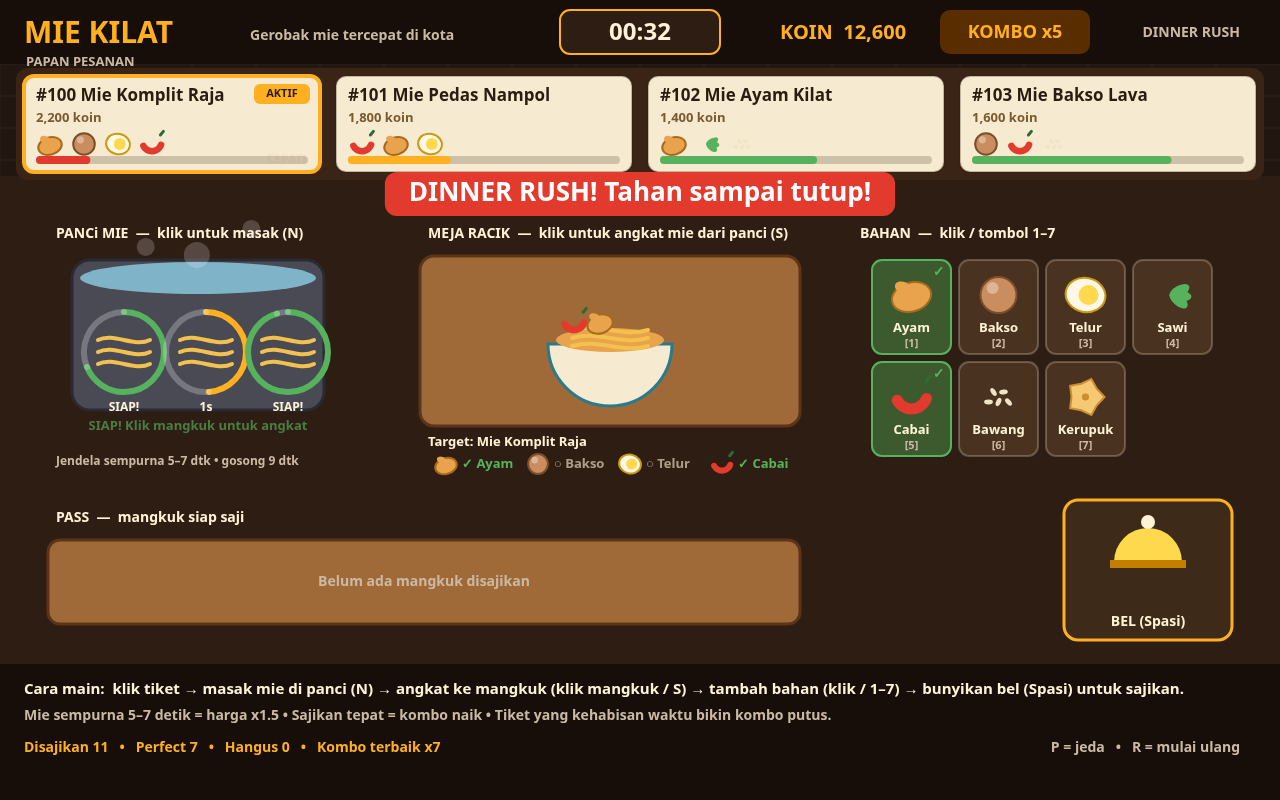
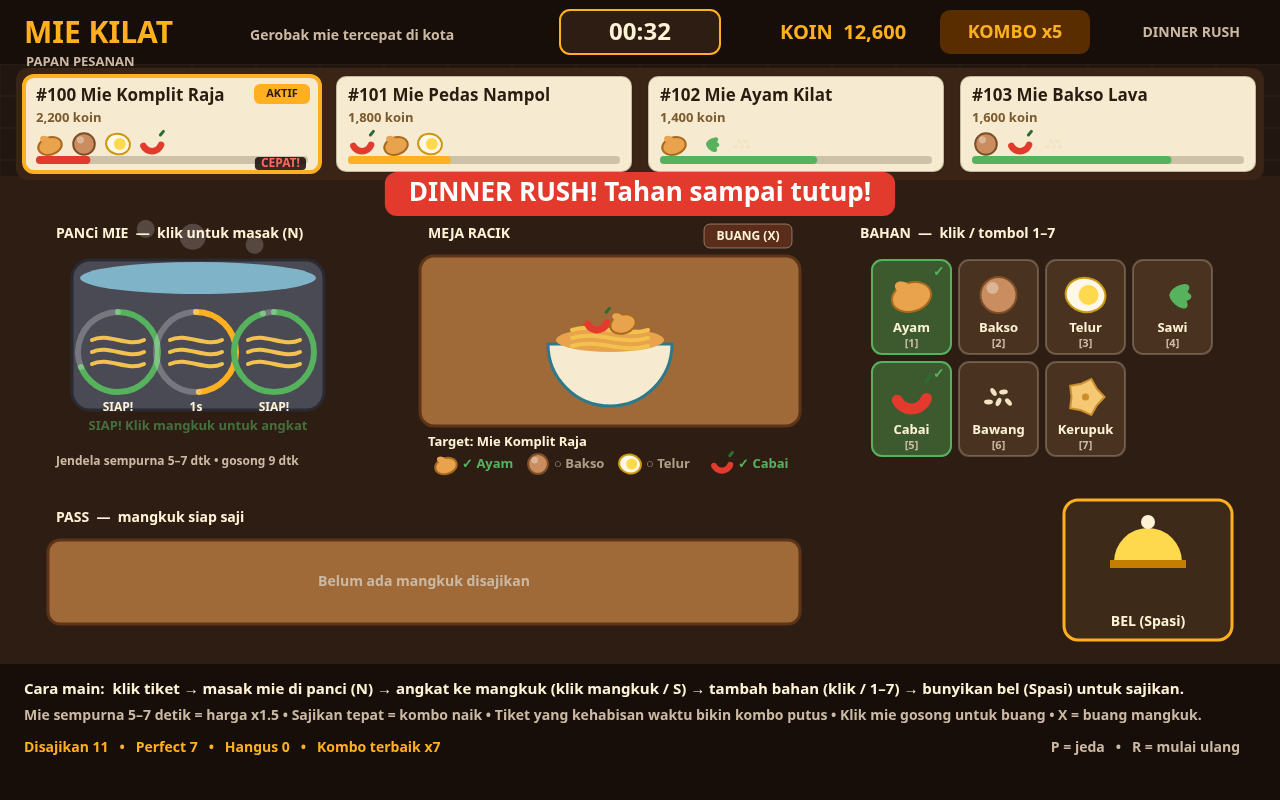
v2: burnt-nest discard, topping toggle, bowl dump, solid CEPAT, frozen shot time, clean screenshots

diff --git a/game/src/render.js b/game/src/render.js
@@ -5,7 +5,7 @@
 
 import {
   COLORS, H, LAYOUT, POT_BURN_AT, POT_PERFECT_FROM, POT_PERFECT_TO, RECIPES,
-  TOPPINGS, W, fmtCoins, fmtTime, recipeById, toppingById,
+  TOPPINGS, W, fmtCoins, fmtTime, nestCenter, recipeById, toppingById,
 } from './config.js';
 
 function rr(ctx, x, y, w, h, r) {
@@ -104,10 +104,14 @@ function drawTicket(ctx, t, x, y, w, h, active, now) {
   ctx.fillStyle = frac > 0.5 ? COLORS.green : frac > 0.25 ? COLORS.amber : COLORS.red;
   if (frac > 0) { rr(ctx, x + 12, y + h - 16, bw * frac, 8, 4); ctx.fill(); }
   if (frac <= 0.25) {
-    // Urgent tickets pulse.
-    ctx.globalAlpha = 0.5 + 0.5 * Math.sin(now * 6);
-    text(ctx, 'CEPAT!', x + w - 14, y + h - 12, 12, COLORS.red, 'bold', 'right');
-    ctx.globalAlpha = 1;
+    // Urgent tickets shout: solid red label on a dark pill so it never
+    // vanishes at capture time (was a pulsing alpha before).
+    ctx.font = 'bold 12px system-ui, sans-serif';
+    const label = 'CEPAT!';
+    const lw = ctx.measureText(label).width + 12;
+    rr(ctx, x + w - 14 - lw, y + h - 15, lw, 13, 4);
+    ctx.fillStyle = 'rgba(20,8,6,0.85)'; ctx.fill();
+    text(ctx, label, x + w - 14 - 6, y + h - 8, 12, '#ff6a5a', 'bold', 'right');
   }
   ctx.restore();
 }
@@ -138,8 +142,9 @@ function drawPot(ctx, w, now) {
     text(ctx, 'Panci kosong — klik untuk masukkan mie', p.x + p.w / 2, nest.y + nest.h / 2, 14, '#cbb9a3', 'bold', 'center');
   }
   w.pot.forEach((n, i) => {
-    const cx = nest.x + 46 + i * 82;
-    const cy = nest.y + 52;
+    const c = nestCenter(i);
+    const cx = c.x;
+    const cy = c.y;
     const col = n.status === 'ready' ? COLORS.green : n.status === 'burnt' ? '#3a2a22' : COLORS.amber;
     // Noodle nest: wavy strokes.
     ctx.strokeStyle = n.status === 'burnt' ? '#241812' : '#f2c14e';
@@ -173,7 +178,7 @@ function drawPot(ctx, w, now) {
 function drawBowl(ctx, w) {
   const b = LAYOUT.bowl;
   ctx.save();
-  text(ctx, 'MEJA RACIK  —  klik untuk angkat mie dari panci (S)', b.x + 8, b.y + 18, 14, COLORS.cream);
+  text(ctx, 'MEJA RACIK', b.x + 8, b.y + 18, 14, COLORS.cream);
   // Counter slab.
   rr(ctx, b.x, b.y + 40, b.w, 170, 14);
   ctx.fillStyle = COLORS.counterTop; ctx.fill();
@@ -201,23 +206,31 @@ function drawBowl(ctx, w) {
       ctx.bezierCurveTo(cx - 12, cy - 14 + k * 8, cx + 12, cy + 2 + k * 8, cx + 38, cy - 6 + k * 8);
       ctx.stroke();
     }
-    // Toppings on top.
+    // Toppings on top, centred on the bowl so the 5th never hangs off the rim.
+    const nTop = w.bowl.toppings.length;
     w.bowl.toppings.forEach((id, i) => {
-      drawToppingIcon(ctx, id, cx - 36 + i * 26, cy - 22, 13);
+      drawToppingIcon(ctx, id, cx + (i - (nTop - 1) / 2) * 26, cy - 22, 13);
     });
     if (w.bowl.perfectNoodles) {
       text(ctx, 'MIE SEMPURNA', cx, cy - 78, 12, COLORS.green, 'bold', 'center');
     }
   }
+  // Dump button (top-right of the panel): clears the bowl for a fresh start.
+  const db = LAYOUT.dumpButton;
+  rr(ctx, db.x, db.y, db.w, db.h, 6);
+  ctx.fillStyle = w.bowl.noodles || w.bowl.toppings.length ? '#5a2d1a' : '#3a2a20';
+  ctx.fill();
+  ctx.strokeStyle = 'rgba(255,243,214,0.4)'; ctx.lineWidth = 1; ctx.stroke();
+  text(ctx, 'BUANG (X)', db.x + db.w / 2, db.y + 13, 12, COLORS.cream, 'bold', 'center');
   // Recipe checklist for the active ticket.
   const t = w.tickets[w.activeTicket];
   if (t) {
     const recipe = recipeById(t.recipeId);
-    text(ctx, `Target: ${recipe.name}`, b.x + 8, b.y + p226(b), 13, COLORS.cream);
+    text(ctx, `Target: ${recipe.name}`, b.x + 8, b.y + 226, 13, COLORS.cream);
     recipe.toppings.forEach((id, i) => {
       const done = w.bowl.toppings.includes(id);
       const x = b.x + 16 + i * 92;
-      const y = b.y + p226(b) + 22;
+      const y = b.y + 226 + 22;
       drawToppingIcon(ctx, id, x + 10, y, 11);
       ctx.fillStyle = done ? COLORS.green : 'rgba(255,243,214,0.6)';
       ctx.font = 'bold 13px system-ui, sans-serif';
@@ -226,10 +239,6 @@ function drawBowl(ctx, w) {
     });
   }
   ctx.restore();
-}
-
-function p226(b) {
-  return 226;
 }
 
 function drawBins(ctx, w) {
@@ -282,8 +291,6 @@ function drawPass(ctx, w, now) {
   });
   // Bell.
   const bell = LAYOUT.bell;
-  const ring = w.popups.length && now ? 0 : 0;
-  void ring;
   rr(ctx, bell.x, bell.y, bell.w, bell.h, 14);
   ctx.fillStyle = '#3d2a18'; ctx.fill();
   ctx.strokeStyle = COLORS.amber; ctx.lineWidth = 3; ctx.stroke();
@@ -329,7 +336,7 @@ function drawBottomBar(ctx, w) {
   ctx.fillStyle = '#170e09';
   ctx.fillRect(b.x, b.y, b.w, b.h);
   text(ctx, 'Cara main:  klik tiket → masak mie di panci (N) → angkat ke mangkuk (klik mangkuk / S) → tambah bahan (klik / 1–7) → bunyikan bel (Spasi) untuk sajikan.', 24, b.y + 26, 15, COLORS.cream);
-  text(ctx, 'Mie sempurna 5–7 detik = harga x1.5 • Sajikan tepat = kombo naik • Tiket yang kehabisan waktu bikin kombo putus.', 24, b.y + 52, 14, '#cbb9a3');
+  text(ctx, 'Mie sempurna 5–7 detik = harga x1.5 • Sajikan tepat = kombo naik • Tiket yang kehabisan waktu bikin kombo putus • Klik mie gosong untuk buang • X = buang mangkuk.', 24, b.y + 52, 14, '#cbb9a3');
   text(ctx, `Disajikan ${w.served}   •   Perfect ${w.perfect}   •   Hangus ${w.missed}   •   Kombo terbaik x${w.bestCombo}`, 24, b.y + 84, 14, COLORS.amber, 'bold');
   text(ctx, 'P = jeda   •   R = mulai ulang', 1240, b.y + 84, 14, '#cbb9a3', 'bold', 'right');
   ctx.restore();
@@ -354,7 +361,13 @@ function drawPopups(ctx, w) {
     const a = 1 - p.t / p.life;
     ctx.save();
     ctx.globalAlpha = Math.max(0, a);
-    text(ctx, p.text, p.x, p.y - p.t * 40, 22, p.color, 'bold', 'center');
+    // Dark pill behind the text so a popup never swallows the tile under it.
+    ctx.font = 'bold 22px system-ui, sans-serif';
+    const tw = ctx.measureText(p.text).width;
+    const py = p.y - p.t * 40;
+    rr(ctx, p.x - tw / 2 - 14, py - 18, tw + 28, 36, 10);
+    ctx.fillStyle = 'rgba(20,10,6,0.88)'; ctx.fill();
+    text(ctx, p.text, p.x, py, 22, p.color, 'bold', 'center');
     ctx.restore();
   }
 }

diff --git a/game/src/input.js b/game/src/input.js
@@ -2,7 +2,7 @@
 // actions. Hit-testing uses the same LAYOUT rects render.js draws, so a button
 // never drifts from its drawing. The main loop pulls events from the queue.
 
-import { LAYOUT, TOPPINGS, pointInRect } from './config.js';
+import { LAYOUT, TOPPINGS, nestCenter, pointInRect } from './config.js';
 
 export function createInput(canvas, onAction) {
   const queue = [];
@@ -41,6 +41,7 @@ export function createInput(canvas, onAction) {
     if (k === ' ') { e.preventDefault(); queue.push({ type: 'serve' }); }
     else if (k === 'n') queue.push({ type: 'cook' });
     else if (k === 's') queue.push({ type: 'scoop' });
+    else if (k === 'x') queue.push({ type: 'dump' });
     else if (k === 'r') queue.push({ type: 'restart' });
     else if (k === 'p' || k === 'escape') queue.push({ type: 'pause' });
     else if (k === 'enter') queue.push({ type: 'confirm' });
@@ -51,9 +52,20 @@ export function createInput(canvas, onAction) {
   });
 
   // Resolve one raw click into a named action using the shared layout.
-  function resolveClick(x, y, ticketCount) {
+  // potNests is the world's current pot (for burnt-nest discard hit-testing).
+  function resolveClick(x, y, ticketCount, potNests = []) {
     for (let i = 0; i < ticketCount; i++) {
       if (pointInRect(x, y, ticketRect(i))) return { type: 'ticket', index: i };
+    }
+    if (pointInRect(x, y, LAYOUT.dumpButton)) return { type: 'dump' };
+    // A click on a burnt nest discards it (the P0 fix); anywhere else in the
+    // pot drops a fresh nest in.
+    for (let i = 0; i < potNests.length; i++) {
+      const c = nestCenter(i);
+      const dx = x - c.x, dy = y - c.y;
+      if (dx * dx + dy * dy <= 40 * 40 && potNests[i].status === 'burnt') {
+        return { type: 'discard', index: i };
+      }
     }
     if (pointInRect(x, y, LAYOUT.pot)) return { type: 'cook' };
     if (pointInRect(x, y, LAYOUT.bowl)) return { type: 'scoop' };
@@ -67,12 +79,13 @@ export function createInput(canvas, onAction) {
   }
 
   return {
-    // Drain the queue, resolving clicks against the current ticket count.
-    drain(ticketCount) {
+    // Drain the queue, resolving clicks against the current ticket count and
+    // pot nests (burnt-nest discard needs the nest states).
+    drain(ticketCount, potNests = []) {
       const out = [];
       while (queue.length) {
         const ev = queue.shift();
-        if (ev.type === 'click') out.push(resolveClick(ev.x, ev.y, ticketCount));
+        if (ev.type === 'click') out.push(resolveClick(ev.x, ev.y, ticketCount, potNests));
         else out.push(ev);
       }
       return out;

diff --git a/game/src/main.js b/game/src/main.js
@@ -8,8 +8,8 @@ import { render } from './render.js';
 import { sfx } from './audio.js';
 import { applyShot, shotFromUrl } from './shots.js';
 import {
-  activeTicket, addTopping, cookNoodles, createWorld, restart, scoopNoodles,
-  serveActive, setActiveTicket, startShift, updateWorld,
+  addTopping, cookNoodles, createWorld, discardBurnt, dumpBowl, removeTopping,
+  restart, scoopNoodles, serveActive, setActiveTicket, startShift, updateWorld,
 } from './world.js';
 
 const canvas = document.getElementById('game');
@@ -21,7 +21,7 @@ const world = shot ? applyShot(shot.shot, shot.seed) : createWorld(1);
 const input = createInput(canvas, null);
 window.__game = { world };
 
-function popup(text, color, x = 1148, y = 470) {
+function popup(text, color, x = 1130, y = 490) {
   world.popups.push({ x, y, text, color, t: 0, life: 1.4 });
   if (world.popups.length > 8) world.popups.shift();
 }
@@ -63,6 +63,20 @@ function handleAction(a) {
     else sfx('bad');
     return;
   }
+  if (a.type === 'discard') {
+    if (discardBurnt(world, a.index)) {
+      sfx('pop');
+      popup('Mie gosong dibuang', '#e23b2e');
+    } else sfx('bad');
+    return;
+  }
+  if (a.type === 'dump') {
+    if (dumpBowl(world)) {
+      sfx('bad');
+      popup('Mangkuk dibuang, racik lagi', '#e23b2e');
+    } else sfx('bad');
+    return;
+  }
   if (a.type === 'scoop') {
     const r = scoopNoodles(world);
     if (r === 'ok') sfx('pop');
@@ -70,6 +84,11 @@ function handleAction(a) {
     return;
   }
   if (a.type === 'topping') {
+    // Toggle: clicking a topping already in the bowl takes it back out.
+    if (world.bowl.toppings.includes(a.id)) {
+      if (removeTopping(world, a.id)) sfx('click');
+      return;
+    }
     const r = addTopping(world, a.id);
     if (r === 'ok') sfx('click');
     else sfx('bad');
@@ -97,11 +116,14 @@ function handleAction(a) {
 
 let last = performance.now();
 function frame(nowMs) {
-  const now = nowMs / 1000;
+  // In frozen ?shot= mode, time is fixed so steam, hints and flashes render
+  // identically on every capture (P2-2: wall-clock pulses made screenshots
+  // non-reproducible).
+  const now = world.frozen ? 1.234 : nowMs / 1000;
   let dt = Math.min(0.05, (nowMs - last) / 1000);
   last = nowMs;
   if (Number.isNaN(dt) || dt < 0) dt = 0;
-  for (const a of input.drain(world.tickets.length)) handleAction(a);
+  for (const a of input.drain(world.tickets.length, world.pot)) handleAction(a);
   updateWorld(world, dt);
   render(ctx, world, now);
   requestAnimationFrame(frame);

diff --git a/game/src/world.js b/game/src/world.js
@@ -146,12 +146,39 @@ export function serveActive(w) {
 }
 
 export function startShift(w) {
+  ticketSeq = 0;
   w.state = 'play';
   w.time = 0;
   w.shiftLeft = SHIFT_SECONDS;
   w.spawnIn = 3;
   spawnTicket(w);
   spawnTicket(w);
+}
+
+// Discard a burnt nest from the pot, freeing its slot. Returns true if a burnt
+// nest was removed (the P0 fix: without this, burnt nests brick the pot).
+export function discardBurnt(w, idx) {
+  if (w.state !== 'play') return false;
+  if (idx < 0 || idx >= w.pot.length) return false;
+  if (w.pot[idx].status !== 'burnt') return false;
+  w.pot.splice(idx, 1);
+  return true;
+}
+
+// Remove one topping from the bowl (toggle). Returns true if removed.
+export function removeTopping(w, id) {
+  const i = w.bowl.toppings.indexOf(id);
+  if (i === -1) return false;
+  w.bowl.toppings.splice(i, 1);
+  return true;
+}
+
+// Dump the whole bowl (misclick recovery). Returns true if anything was dumped.
+export function dumpBowl(w) {
+  if (w.state !== 'play') return false;
+  if (!w.bowl.noodles && w.bowl.toppings.length === 0) return false;
+  w.bowl = { noodles: false, perfectNoodles: false, toppings: [] };
+  return true;
 }
 
 export function restart(w) {
@@ -197,7 +224,7 @@ export function updateWorld(w, dt) {
     t.patience -= dt;
     if (t.patience <= 0) {
       const recipe = RECIPES.find((r) => r.id === t.recipeId);
-      addPopup(w, 640, 150, `Hangus! ${recipe.name} kabur`, '#e23b2e');
+      addPopup(w, 640, 196, `Hangus! ${recipe.name} kabur`, '#e23b2e');
       w.tickets.splice(i, 1);
       w.missed += 1;
       w.combo = 0;

diff --git a/game/src/config.js b/game/src/config.js
@@ -81,7 +81,13 @@ export const LAYOUT = {
   bottomBar: { x: 0, y: 664, w: 1280, h: 136 },
   startButton: { x: 490, y: 520, w: 300, h: 72 },
   restartButton: { x: 490, y: 560, w: 300, h: 72 },
+  dumpButton: { x: 704, y: 224, w: 88, h: 24 },
 };
+
+// Centre of pot nest i (radius 40). render.js draws here; input.js hit-tests here.
+export function nestCenter(i) {
+  return { x: LAYOUT.potNest.x + 40 + i * 78, y: LAYOUT.potNest.y + 52 };
+}
 
 export function pointInRect(px, py, r) {
   return px >= r.x && px <= r.x + r.w && py >= r.y && py <= r.y + r.h;

diff --git a/game/index.html b/game/index.html
@@ -16,7 +16,7 @@
 <body>
 <div id="wrap">
   <canvas id="game" width="1280" height="800"></canvas>
-  <p><b>MIE KILAT</b> — klik tiket, masak mie (N), angkat ke mangkuk (S), tambah bahan (1–7), bunyikan bel (Spasi). P = jeda, R = mulai ulang.</p>
+  <p><b>MIE KILAT</b> — klik tiket, masak mie (N), angkat ke mangkuk (S), tambah bahan (1–7, klik lagi untuk ambil), bunyikan bel (Spasi). Klik mie gosong untuk buang. P = jeda, R = mulai ulang, X = buang mangkuk.</p>
 </div>
 <script type="module" src="./src/main.js"></script>
 </body>

diff --git a/game/src/shots.js b/game/src/shots.js
@@ -78,7 +78,7 @@ export function applyShot(name, seed = 1) {
     w.bestCombo = 6;
     w.served = 13;
     w.perfect = 9;
-    w.popups = [{ x: 1148, y: 470, text: 'PERFECT! +2.250', color: '#ffb020', t: 0.3, life: 1.4 }];
+    w.popups = [{ x: 1130, y: 490, text: 'PERFECT! +2.250', color: '#ffb020', t: 0.3, life: 1.4 }];
     return w;
   }
   return w;

diff --git a/README.md b/README.md
@@ -34,3 +34,7 @@ Screenshots are deterministic renders of the game's own code: `game/src/shots.js
 ## Development notes
 
 The game was built in one recorded session: research first (kit rules, the judge's screenshot-first criteria, and the winning pattern from best-game-01's top entries — one memorable mechanic plus visible progression), then the code, then a visual pass. The core loop was verified in Node before screenshots were taken: cook 6s → ready → scoop → three toppings → perfect serve pays 2,533 coins and starts a combo, and the shift ends cleanly at 150s. Screenshots were re-shot after two fixes — the pot's ready hint went from per-nest to one shared line, and the rush banner was shortened so it never covers a panel header. Both runs of `main.ts` produce byte-identical output.
+
+## v2 — post-submit revision (audit-driven)
+
+The post-build audit caught one real soft-lock: burnt nests could never leave the pot, so three burns bricked cooking for the rest of the shift. v2 fixes it — click a burnt nest to discard it — and adds topping toggle (click a topping in the bowl to take it back out) plus a BUANG (X) button that dumps the bowl, so a misclick never forces a 0.6x serve. The serve popup moved to a dark pill above the bell, the CEPAT! urgent label is now solid on a dark pill instead of a pulsing alpha (it vanished in the rush screenshot), screenshot time is frozen so re-shoots are reproducible, and the dead `p226` stub and `void ring` are gone. All four screenshots were re-shot and re-verified after the fixes.
